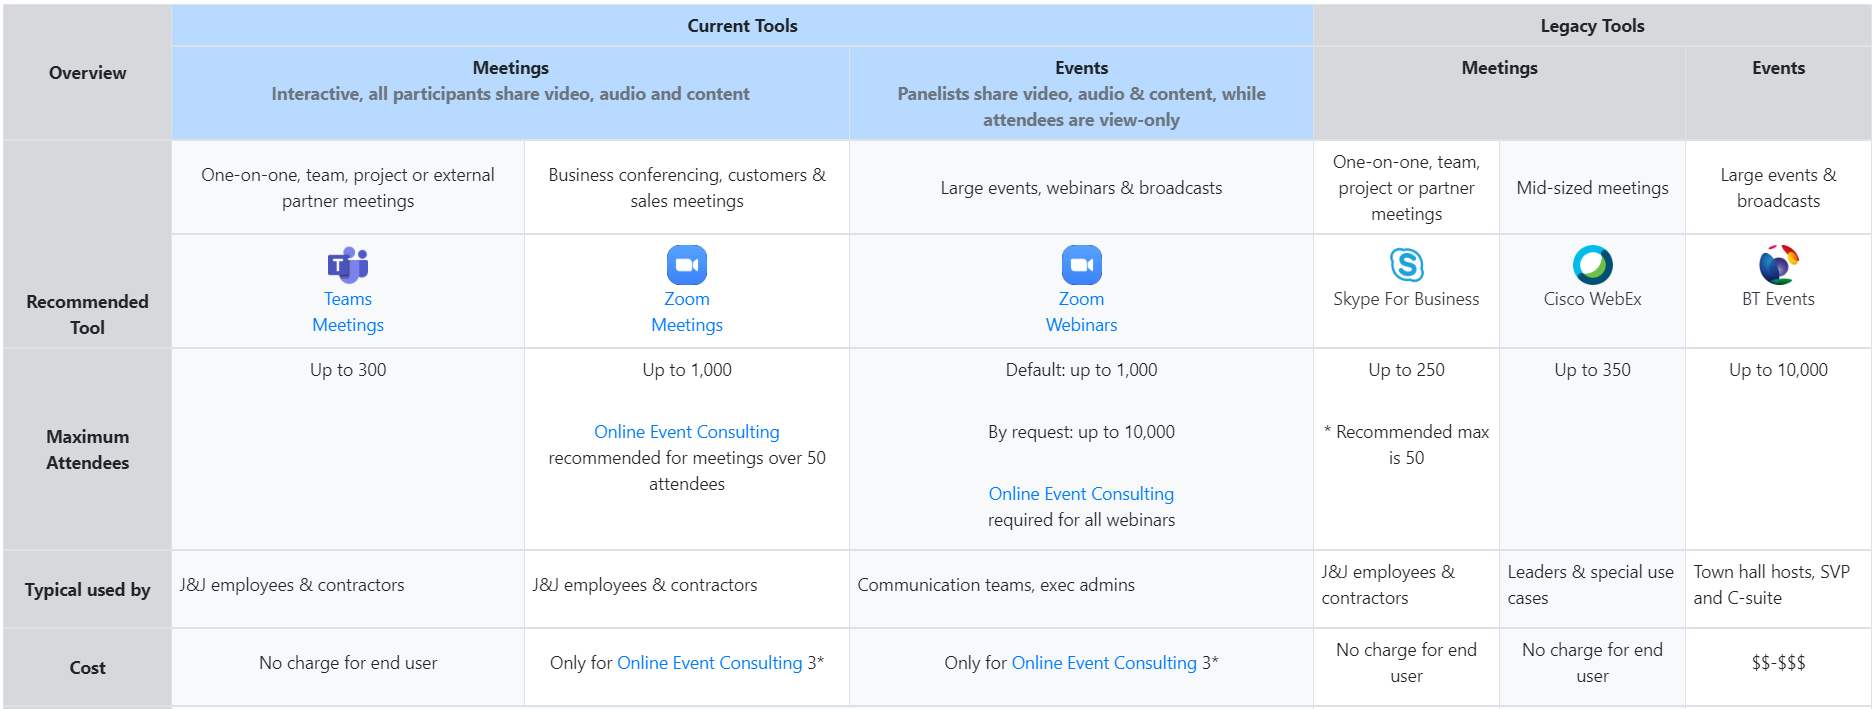
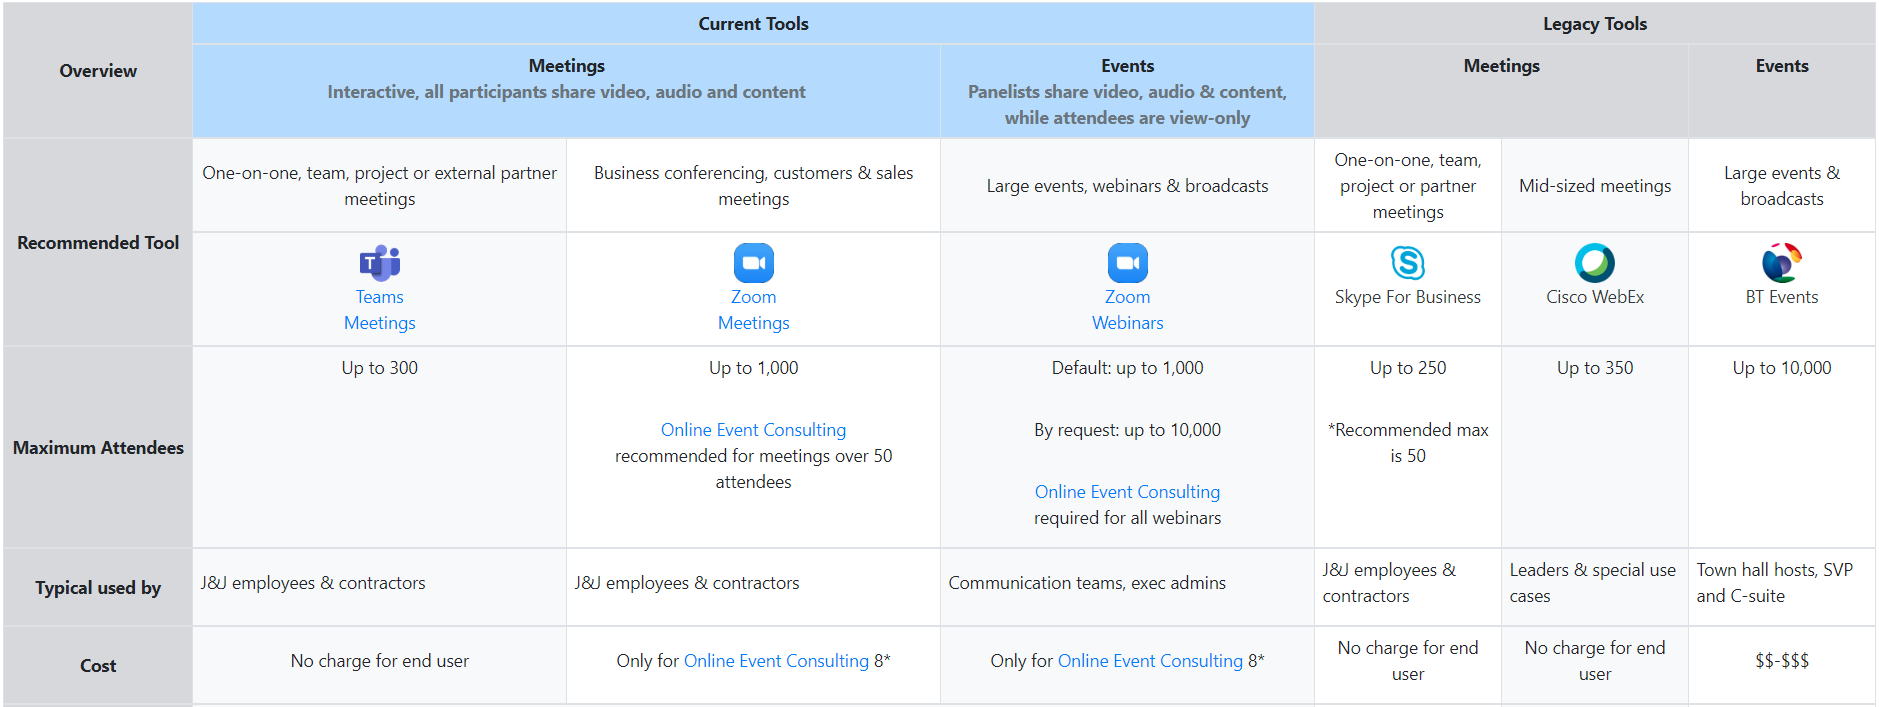
asdasd

diff --git a/Scenarios/VirtualMeetings/toolkit_vm_v6.html b/Scenarios/VirtualMeetings/toolkit_vm_v6.html
@@ -13,16 +13,12 @@
         }
         /**/
 
-        /*        .wow {
-            visibility: hidden;
-        }*/
-
         html {
             font-size: 62.5%;
         }
 
         body {
-            font-size: 1.5rem;
+            font-size: 1.75rem;
         }
 
         .logo,
@@ -107,11 +103,10 @@
             font-weight: 700;
         }
 
-        .stronger {
-            font-weight: 500;
-        }
         .stronger p {
             font-size: 2rem;
+            font-weight: 600;
+            color: #2962ff;
         }
 
         /*.footer .icon {
@@ -219,19 +214,19 @@
                                 </td>
                             </tr>
                             <tr class='text-center'>
-                                <th class='align-top teams caption'>
+                                <th class='align-top teams caption' width='20%'>
                                     <a target='_blank' href='https://jnj.sharepoint.com/teams/ITforme/Pages/teams.aspx'>
                                         <img src='https://raw.githubusercontent.com/MyYupNope/MyYupNope.github.io/master/Logos/MSTeams.png' alt='logos' class=' rounded ' /><br> Teams<br>Meetings
                                     </a>
                                 </th>
 
-                                <th class='align-top zoom_m caption'>
+                                <th class='align-top zoom_m caption' width='20%'>
                                     <a target='_blank' href='https://jnj.sharepoint.com/teams/ITforme/Pages/Zoom.aspx'>
                                         <img src='https://raw.githubusercontent.com/MyYupNope/MyYupNope.github.io/master/Logos/Zoom.png' alt='logos' class=' rounded ' /><br>Zoom<br>Meetings
                                     </a>
                                 </th>
 
-                                <th class='align-top zoom_w caption'>
+                                <th class='align-top zoom_w caption' width='20%'>
                                     <a target='_blank' href='https://jnj.sharepoint.com/teams/ITforme/Pages/quick-ref-guide-ZoomWebinars.aspx'>
                                         <img src='https://raw.githubusercontent.com/MyYupNope/MyYupNope.github.io/master/Logos/Zoom.png' alt='logos' class=' rounded ' /><br>Zoom<br>Webinars
                                     </a>
@@ -272,7 +267,7 @@
                                 </td>
                                 <td>
                                     <p class='text-center'>Up to 250</p><br>
-                                    <p class='text-center'>* Recommended max is 50</p>
+                                    <p class='text-center'>*Recommended max is 50</p>
                                 </td>
                                 <td>
                                     <p class='text-center'>Up to 350</p>
@@ -309,10 +304,10 @@
                                     <p>No charge for end user</p>
                                 </td>
                                 <td class='align-middle'>
-                                    <p class='text-center'>Only for <a href='https://jnj.sharepoint.com/teams/ITforme/Pages/Zoom-Online-Event-Consulting.aspx'>Online Event Consulting </a> 3*</p>
+                                    <p class='text-center'>Only for <a href='https://jnj.sharepoint.com/teams/ITforme/Pages/Zoom-Online-Event-Consulting.aspx'>Online Event Consulting </a> 8*</p>
                                 </td>
                                 <td class='align-middle'>
-                                    <p class='text-center'>Only for <a href='https://jnj.sharepoint.com/teams/ITforme/Pages/Zoom-Online-Event-Consulting.aspx'>Online Event Consulting </a> 3*</p>
+                                    <p class='text-center'>Only for <a href='https://jnj.sharepoint.com/teams/ITforme/Pages/Zoom-Online-Event-Consulting.aspx'>Online Event Consulting </a> 8*</p>
                                 </td>
                                 <td class='align-middle'>
                                     <p>No charge for end user</p>
@@ -361,15 +356,10 @@
                                 </td>
                             </tr>
                             <tr class='text-center'>
-                                <td class='align-middle'>
+                                <td class='align-middle' colspan='3'>
                                     <a target='_blank' href='https://jnj.sharepoint.com/teams/ITforme/Pages/tlc.aspx'><button type='button' class='btn btn-lg btn-danger btn-block'>Register for Training</button></a>
                                 </td>
-                                <td class='align-middle'>
-                                    <a target='_blank' href='https://jnj.sharepoint.com/teams/ITforme/Pages/tlc.aspx'><button type='button' class='btn btn-lg btn-danger btn-block'>Register for Training</button></a>
-                                </td>
-                                <td class='align-middle'>
-                                    <a target='_blank' href='https://jnj.sharepoint.com/teams/ITforme/Pages/tlc.aspx'><button type='button' class='btn btn-lg btn-danger btn-block'>Register for Training</button></a>
-                                </td>
+
                                 <td class='align-middle'>
                                     <p>&nbsp;</p>
                                 </td>
@@ -382,7 +372,7 @@
                             </tr>
 
                         </thead>
-                    </table>
+              <!--      </table>
                 </div>
             </div>
         </div>
@@ -409,53 +399,53 @@
                             <col class='' />
                         </colgroup>
 
-                        <thead>
+                        <thead-->
                             <tr class='text-center'>
                                 <th scope='col' class='align-middle'>Overview</th>
                                 <th scope='col' colspan='3' class='table-primary'>Current Tools</th>
                                 <th colspan='3' class='table-secondary'>Legacy Tools</th>
                             </tr>
                             <tr class='text-center'>
-                                <th scope='col' class='align-middle' rowspan='2' width='8%'>Recommended<br>Tool</th>
+                                <th scope='col' class='align-middle' rowspan='2'>Recommended<br>Tool</th>
 
-                                <th class='align-top teams caption'>
-                                    <a target='_blank' href='https://jnj.sharepoint.com/teams/ITforme/Pages/teams.aspx'>
+                                <th class='align-top teams caption table-primary'>
+                                    <a target='_blank' href='https://jnj.sharepoint.com/teams/ITforme/Pages/teams.aspx' class="text-body">
                                         <img src='https://raw.githubusercontent.com/MyYupNope/MyYupNope.github.io/master/Logos/MSTeams.png' alt='logos' class=' rounded ' /><br>Microsoft<br>Teams
                                     </a>
                                 </th>
 
-                                <th class='align-top zoom_m caption'>
-                                    <a target='_blank' href='https://jnj.sharepoint.com/teams/ITforme/Pages/Zoom.aspx'>
+                                <th class='align-top zoom_m caption table-primary'>
+                                    <a target='_blank' href='https://jnj.sharepoint.com/teams/ITforme/Pages/Zoom.aspx' class="text-body"> 
                                         <img src='https://raw.githubusercontent.com/MyYupNope/MyYupNope.github.io/master/Logos/Zoom.png' alt='logos' class=' rounded ' /><br>Zoom<br>Meetings
                                     </a>
                                 </th>
 
-                                <th class='align-top zoom_w caption'>
-                                    <a target='_blank' href='https://jnj.sharepoint.com/teams/ITforme/Pages/quick-ref-guide-ZoomWebinars.aspx'>
+                                <th class='align-top zoom_w caption table-primary'>
+                                    <a target='_blank' href='https://jnj.sharepoint.com/teams/ITforme/Pages/quick-ref-guide-ZoomWebinars.aspx' class="text-body">
                                         <img src='https://raw.githubusercontent.com/MyYupNope/MyYupNope.github.io/master/Logos/Zoom.png' alt='logos' class=' rounded ' /><br>Zoom<br>Webinars
                                     </a>
                                 </th>
 
-                                <th class='align-top sfb caption' width='10%'>
+                                <th class='align-top sfb caption table-secondary' >
                                     <a target='_blank' href='https://jnj.sharepoint.com/teams/ITforme/Pages/quick-ref-guide-skype.aspx' class='text-dark'>
                                         <img src='https://raw.githubusercontent.com/MyYupNope/MyYupNope.github.io/master/Logos/SkypeForBusiness.png' alt='logos' class=' rounded '><br>Skype For Business
                                     </a>
                                 </th>
 
-                                <th class='align-top webex caption' width='10%'>
+                                <th class='align-top webex caption table-secondary' >
                                     <a href='https://jnj.sharepoint.com/teams/ITforme/Pages/quick-ref-guide-webex.aspx' target='_blank'  class='text-dark'>
                                         <img src='https://raw.githubusercontent.com/MyYupNope/MyYupNope.github.io/master/Logos/Webex.png' alt='logos' class=' rounded '><br>Cisco WebEx
                                     </a>
                                 </th>
 
-                                <th class='align-top btevents caption' width='10%'>
+                                <th class='align-top btevents caption table-secondary' >
                                     <a href='https://jnj.sharepoint.com/teams/ITforme/Pages/quick-ref-guide-bt.aspx' target='_blank' class='text-dark'>
                                         <img src='https://raw.githubusercontent.com/MyYupNope/MyYupNope.github.io/master/Logos/BTEvents.jpg' alt='logos' class=' rounded '><br>BT Events
                                     </a>
                                 </th>
 
                             </tr>
-                        </thead>
+                        <!--/thead>-->
 
                         <tbody>
                             <tr class=' stronger'>
@@ -625,22 +615,22 @@
                             <tr class=' text-center stronger'>
                                 <th scope='row' class='text-center'>Global Connect<br>Integration</th>
                                 <td>
-                                    <p>&#10003;</p>
+                                    <p>1*</p>
+                                </td>
+                                <td>
+                                    <p>&#10003; 2*</p>
+                                </td>
+                                <td>
+                                    <p>&#10003; 2*</p>
+                                </td>
+                                <td>
+                                    <p>1*</p>
                                 </td>
                                 <td>
                                     <p>&#10003;</p>
                                 </td>
                                 <td>
-                                    <p>&#10003;</p>
-                                </td>
-                                <td>
-                                    <p>&#10003;</p>
-                                </td>
-                                <td>
-                                    <p>&#10003;</p>
-                                </td>
-                                <td>
-                                    <p>&#10003;</p>
+                                    <p>&nbsp;</p>
                                 </td>
                             </tr>
                             
@@ -670,7 +660,7 @@
                             <tr class=' text-center stronger'>
                                 <th scope='row' class='text-center'>Whiteboard</th>
                                 <td>
-                                    <p>&#10003; 1*</p>
+                                    <p>&#10003; 3*</p>
                                 </td>
                                 <td>
                                     <p>&#10003;</p>
@@ -693,13 +683,13 @@
                             <tr class=' text-center stronger'>
                                 <th scope='row' class='text-center'>Closed Captioning</th>
                                 <td>
-                                    <p>&#10003; 2*</p>
+                                    <p>&#10003; 4*</p>
                                 </td>
                                 <td>
-                                    <p>&#10003; 3*</p>
+                                    <p>&#10003; 5*</p>
                                 </td>
                                 <td>
-                                    <p>&#10003; 3*</p>
+                                    <p>&#10003; 5*</p>
                                 </td>
                                 <td>
                                     <p>&nbsp;</p>
@@ -716,7 +706,7 @@
                             <tr class=' text-center stronger'>
                                 <th scope='row' class='text-center'>Polling</th>
                                 <td>
-                                    <p>&#10003; 4*</p>
+                                    <p>&#10003; 6*</p>
                                 </td>
                                 <td>
                                     <p>&#10003;</p>
@@ -805,10 +795,10 @@
                             <tr class=' text-center stronger'>
                                 <th scope='row' class='text-center'>Q&amp;A</th>
                                 <td>
-                                    <p>5*</p>
+                                    <p>7*</p>
                                 </td>
                                 <td>
-                                    <p>5*</p>
+                                    <p>7*</p>
                                 </td>
                                 <td>
                                     <p>&#10003;</p>
@@ -830,10 +820,10 @@
                                     <p>&nbsp;</p>
                                 </td>
                                 <td>
-                                    <p>&#10003; 6*</p>
+                                    <p>&#10003; 8*</p>
                                 </td>
                                 <td>
-                                    <p>&#10003; 6*</p>
+                                    <p>&#10003; 8*</p>
                                 </td>
                                 <td>
                                     <p>&nbsp;</p>
@@ -873,12 +863,14 @@
                         <tfoot class='table-light'>
                             <tr>
                                 <th scope='row' colspan='8'>
-                                    <span class='small stronger'>1* Whiteboard is available to all users through <a target='_blank' href='https://jnj.sharepoint.com/teams/ITforme/Pages/Whiteboard.aspx'>Microsoft Whiteboard</a>.</span><br>
-                                    <span class='small stronger'>2* Automated closed captioning in Englsh only.</span><br>
-                                    <span class='small stronger'>3* Requires a meeting participant to type the closed captions directly via Zoom or you can integrate a third party service.</span><br>
-                                    <span class='small stronger'>4* Polling is available to all users through the <a target='_blank' href='https://jnj.sharepoint.com/teams/ITforme/Pages/Forms.aspx'>Microsoft Forms</a>.</span><br>
-                                    <span class='small stronger'>5* Separate Q&amp;A tools are available: <a target='_blank' href='https://jnj.sharepoint.com/teams/WorkforceCommunicationsHub/SitePages/Pigeonhole.aspx'>Pigeonhole</a> and the <a target='_blank' href='https://jnj.sharepoint.com/teams/WorkforceCommunicationsHub/SitePages/J%26J-Events-App.aspx'>J&amp;J Events App</a>.</span><br>
-                                    <span class='small stronger'>6* Online Event Consulting and Q&amp;A is available through Zoom's Online Event Consulting Service. Costs do apply, learn more.</span><br><br><br>
+                                    <span class='small stronger'>1* Teams and Skype can connect with Global Connect by manually bridging the audio and joining with a laptop in the room for content sharing</span><br>
+                                    <span class='small stronger'>2* Zoom integrates with Global Connect by manually entering in the meeting information (one-button join is not available)</span><br>
+                                    <span class='small stronger'>3* Whiteboard is available to all users through <a target='_blank' href='https://jnj.sharepoint.com/teams/ITforme/Pages/Whiteboard.aspx'>Microsoft Whiteboard</a>.</span><br>
+                                    <span class='small stronger'>4* Automated closed captioning in Englsh only.</span><br>
+                                    <span class='small stronger'>5* Requires a meeting participant to type the closed captions directly via Zoom or you can integrate a third party service.</span><br>
+                                    <span class='small stronger'>6* Polling is available to all users through the <a target='_blank' href='https://jnj.sharepoint.com/teams/ITforme/Pages/Forms.aspx'>Microsoft Forms</a>.</span><br>
+                                    <span class='small stronger'>7* Separate Q&amp;A tools are available: <a target='_blank' href='https://jnj.sharepoint.com/teams/WorkforceCommunicationsHub/SitePages/Pigeonhole.aspx'>Pigeonhole</a> and the <a target='_blank' href='https://jnj.sharepoint.com/teams/WorkforceCommunicationsHub/SitePages/J%26J-Events-App.aspx'>J&amp;J Events App</a>.</span><br>
+                                    <span class='small stronger'>8* Online Event Consulting and Q&amp;A is available through Zoom's Online Event Consulting Service. Costs do apply, <a href='https://jnj.sharepoint.com/teams/ITforme/Pages/Zoom-Online-Event-Consulting.aspx'>learn more</a>.</span><br><br><br>
                                 </th>
                             </tr>
                         </tfoot>

diff --git a/Scenarios/VirtualMeetings/toolkit_vm_v60.html b/Scenarios/VirtualMeetings/toolkit_vm_v60.html
@@ -13,12 +13,16 @@
         }
         /**/
 
+        /*        .wow {
+            visibility: hidden;
+        }*/
+
         html {
             font-size: 62.5%;
         }
 
         body {
-            font-size: 1.75rem;
+            font-size: 1.5rem;
         }
 
         .logo,
@@ -107,7 +111,7 @@
             font-weight: 500;
         }
         .stronger p {
-            font-size: 1.75rem;
+            font-size: 2rem;
         }
 
         /*.footer .icon {
@@ -378,7 +382,7 @@
                             </tr>
 
                         </thead>
-              <!--      </table>
+                    </table>
                 </div>
             </div>
         </div>
@@ -451,7 +455,7 @@
                                 </th>
 
                             </tr>
-                        </thead>-->
+                        </thead>
 
                         <tbody>
                             <tr class=' stronger'>
